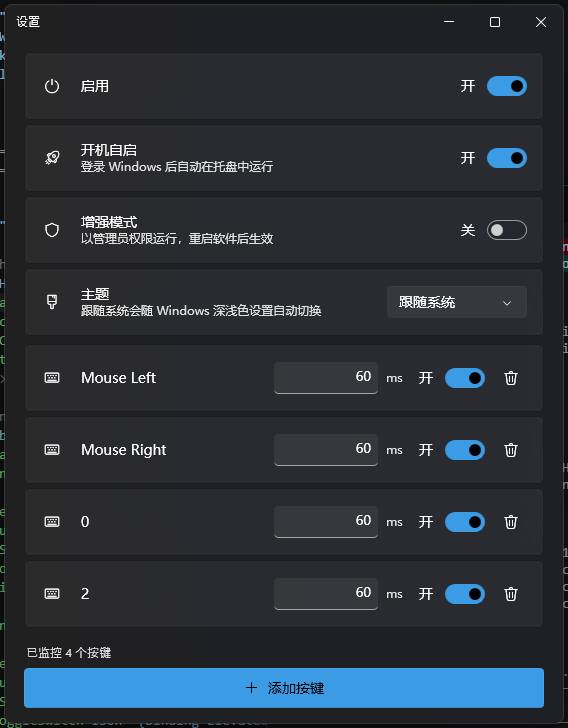
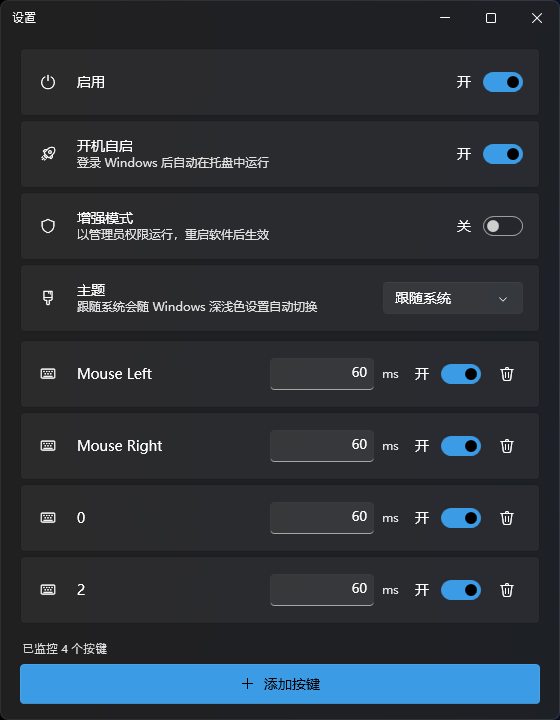
更新关于页描述与界面截图
- 关于页简介改为「鼠标」及「键盘」双击、连击问题
- 更新界面截图

diff --git a/src/DoubleClickHealer.App/AboutWindow.xaml b/src/DoubleClickHealer.App/AboutWindow.xaml
@@ -28,7 +28,7 @@
                    Foreground="{DynamicResource TextFillColorSecondaryBrush}"
                    HorizontalAlignment="Center" Margin="0,4,0,0" />
 
-        <TextBlock Text="修复因微动或轴体老化产生的双击、连击与拖拽中断"
+        <TextBlock Text="修复「鼠标」及「键盘」出现的双击、连击问题"
                    FontSize="12" MaxWidth="300" TextWrapping="Wrap" TextAlignment="Center"
                    Foreground="{DynamicResource TextFillColorSecondaryBrush}"
                    HorizontalAlignment="Center" Margin="0,14,0,0" />
